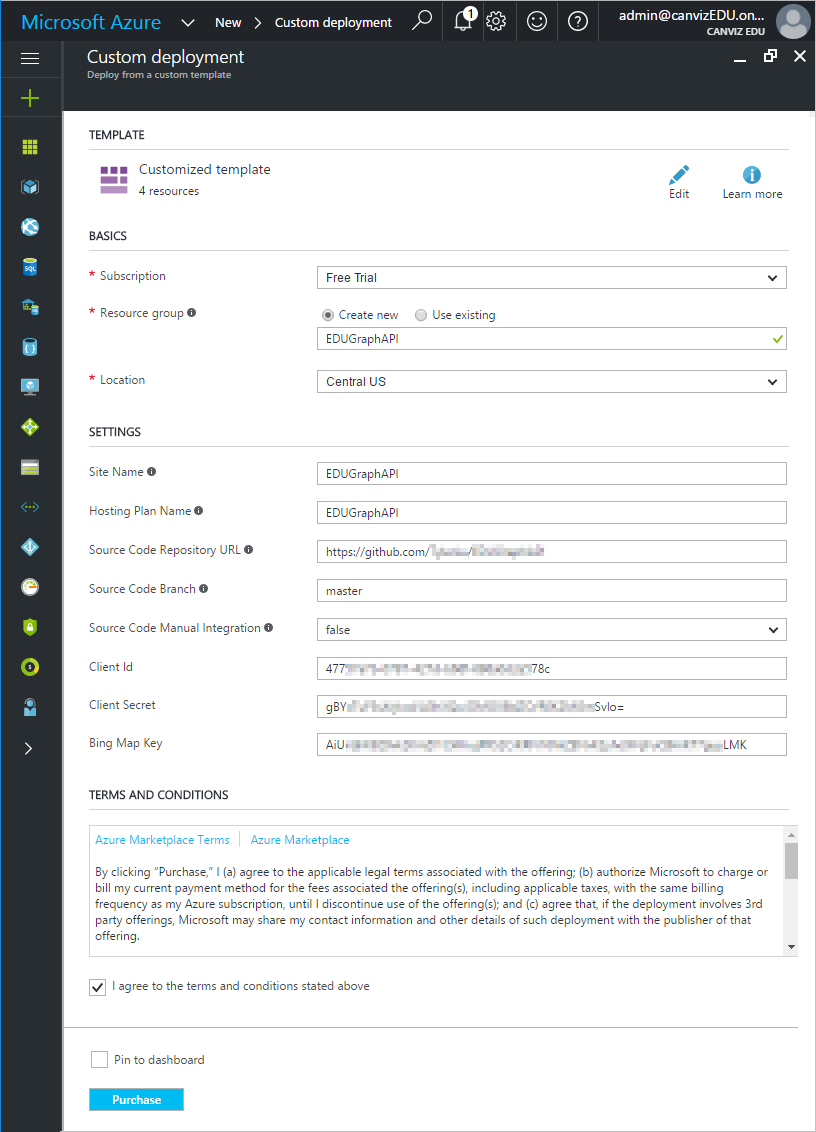
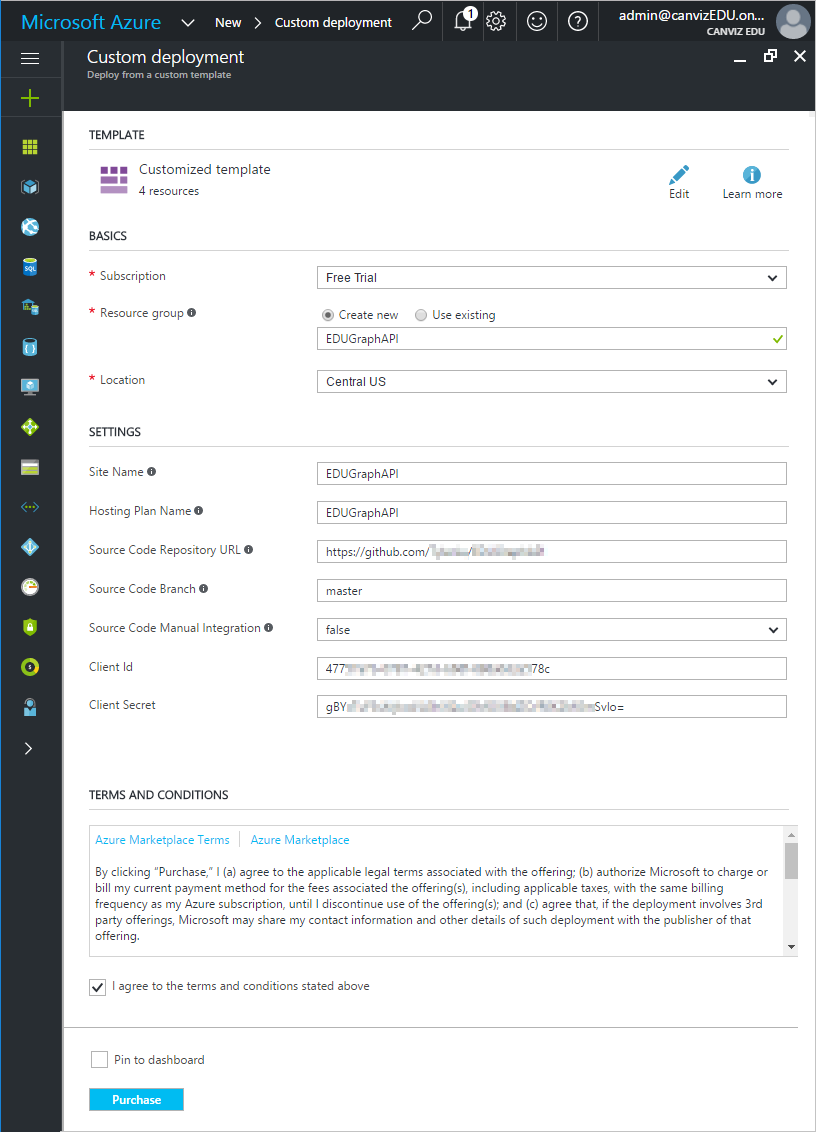
Update readme.

Changed region(s): [[0.3983, 0.6493, 0.9191, 0.6802], [0.1225, 0.6493, 0.1838, 0.6802]]

diff --git a/README.md b/README.md
@@ -52,23 +52,6 @@ This sample is implemented with the Python language and [Django](https://www.dja
   - [Django](https://www.djangoproject.com/download/) 1.11 or above
   - [SQLite](https://www.sqlite.org/)
 
-**Optional configuration**:
-
-A feature in this sample demonstrates calling the Bing Maps API which requires a key to enable the Bing Maps feature. 
-
-Create a key to enable Bing Maps API features in the app:
-
-1. Open [https://www.bingmapsportal.com/](https://www.bingmapsportal.com/) in your web browser and sign in.
-
-2. Click  **My account** -> **My keys**.
-
-3. Create a **Basic** key, select **Public website** as the application type.
-
-4. Copy the **Key** and save it. 
-
-   ![](Images/bing-maps-key.png)
-
-   > **Note:** The key is used in the app configuration steps for debug and deploy.
 
 
 ## Register the application in Azure Active Directory
@@ -138,7 +121,6 @@ Run the app:
 
    - **clientId**: use the Client Id of the app registration you created earlier.
    - **clientSecret**: use the Key value of the app registration you created earlier.
-   - **BingMapKey**: use the key of Bing Map you got earlier. This setting is optional.
    - **SourceCodeRepositoryURL**: use the URL of this repository.
 
 2. Open terminal and navigate to the source code folder. Execute the command below:
@@ -215,8 +197,6 @@ Run the app:
    - **Client Id**: use the Client Id of the app registration you created earlier.
 
    - **Client Secret**: use the Key value of the app registration you created earlier.
-
-   - **Bing Map Key**: use the key of Bing Map you got earlier. This setting is optional. It will hide Bing map icon on schools page if this field is empty.
 
    - Check **I agree to the terms and conditions stated above**.
 
